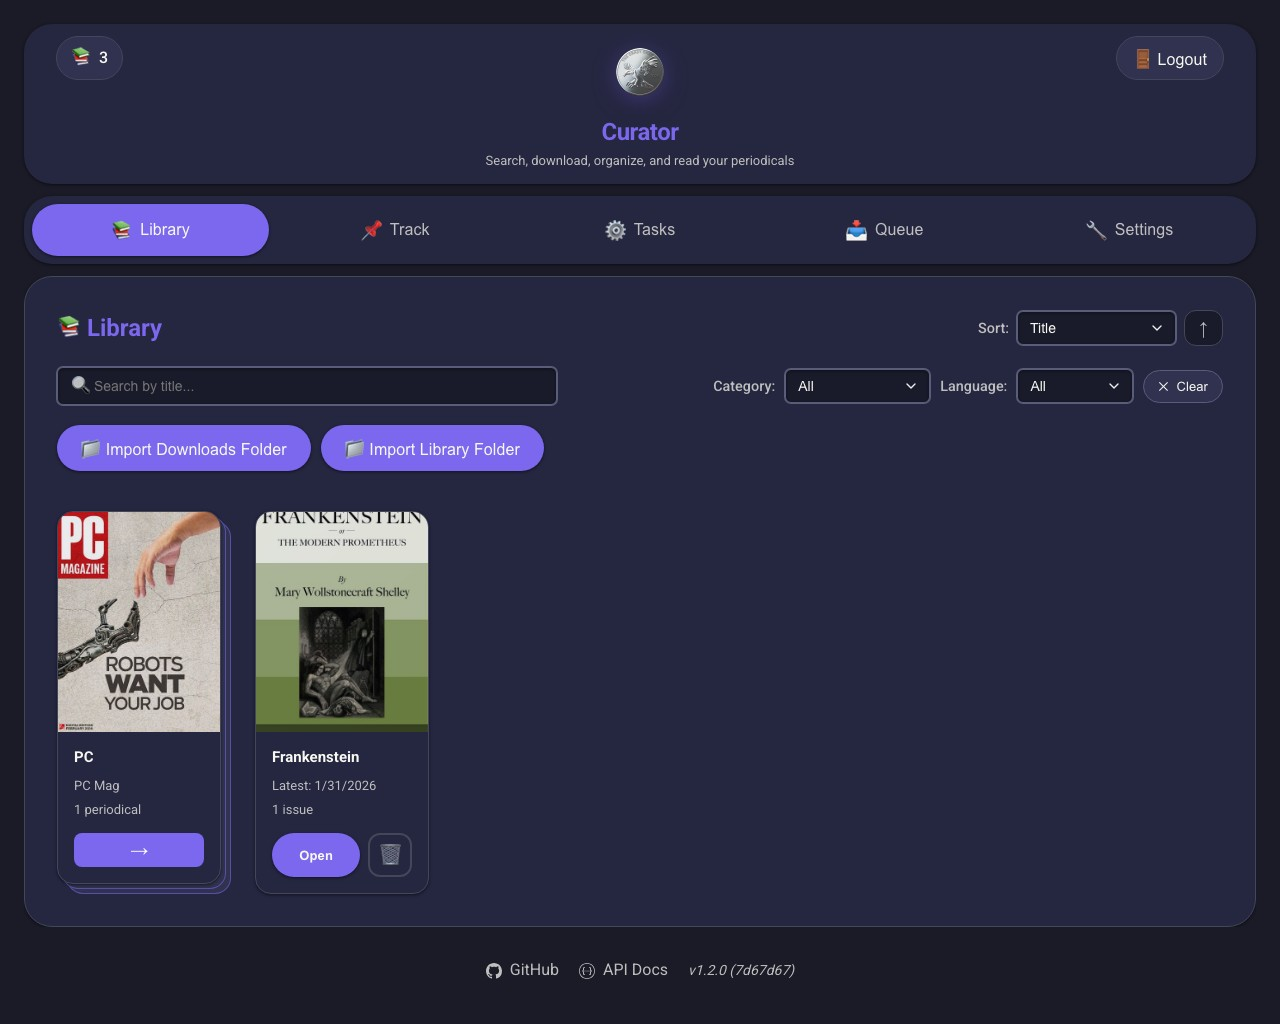
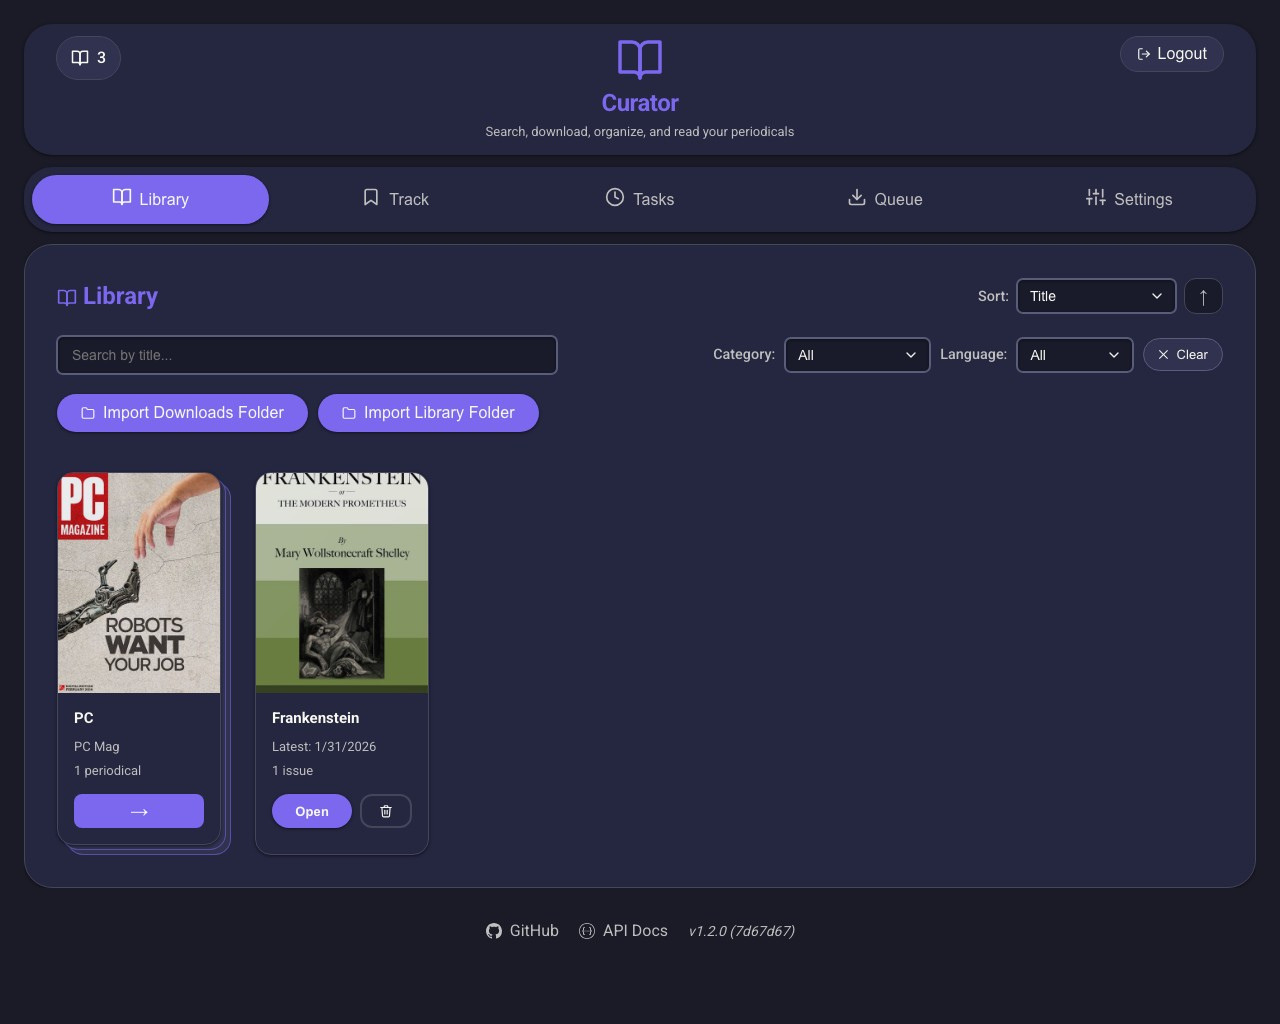
last fixes

diff --git a/static/css/periodical.css b/static/css/periodical.css
@@ -339,7 +339,8 @@
 .issue-card {
   background: var(--surface);
   border: 1px solid var(--border-color);
-  border-radius: var(--radius-md);
+  border-radius: var(--radius-lg);
+  padding: 0;
   overflow: hidden;
   transition:
     transform var(--transition-base),
@@ -348,7 +349,6 @@
   cursor: pointer;
   display: flex;
   flex-direction: column;
-  contain: layout style paint;
 }
 
 .issue-card:hover {
@@ -369,6 +369,9 @@
 }
 
 .issue-cover img {
+  position: absolute;
+  top: 0;
+  left: 0;
   width: 100%;
   height: 100%;
   object-fit: cover;

diff --git a/static/css/login.css b/static/css/login.css
@@ -185,7 +185,7 @@ body {
   text-decoration: underline;
 }
 
-.form-group-password {
+.form-group-password .input-wrapper {
   position: relative;
 }
 
@@ -214,4 +214,15 @@ body {
 
 .toggle-password:hover {
   color: var(--text-primary);
+}
+
+/* Dark mode: replace the vivid purple gradient with a near-black background */
+@media (prefers-color-scheme: dark) {
+  :root:not([data-theme='light']) body {
+    background: var(--background);
+  }
+}
+
+body.dark-mode {
+  background: var(--background);
 }

diff --git a/static/css/components.css b/static/css/components.css
@@ -961,6 +961,11 @@
   background: var(--surface);
 }
 
+#search-issues-modal .modal-content {
+  max-width: 1100px;
+  width: 92%;
+}
+
 /* Flexbox layout for modals with header/body/footer structure.
    Keeps header and footer pinned; only the body scrolls. */
 #manage-queue-modal .modal-content,
